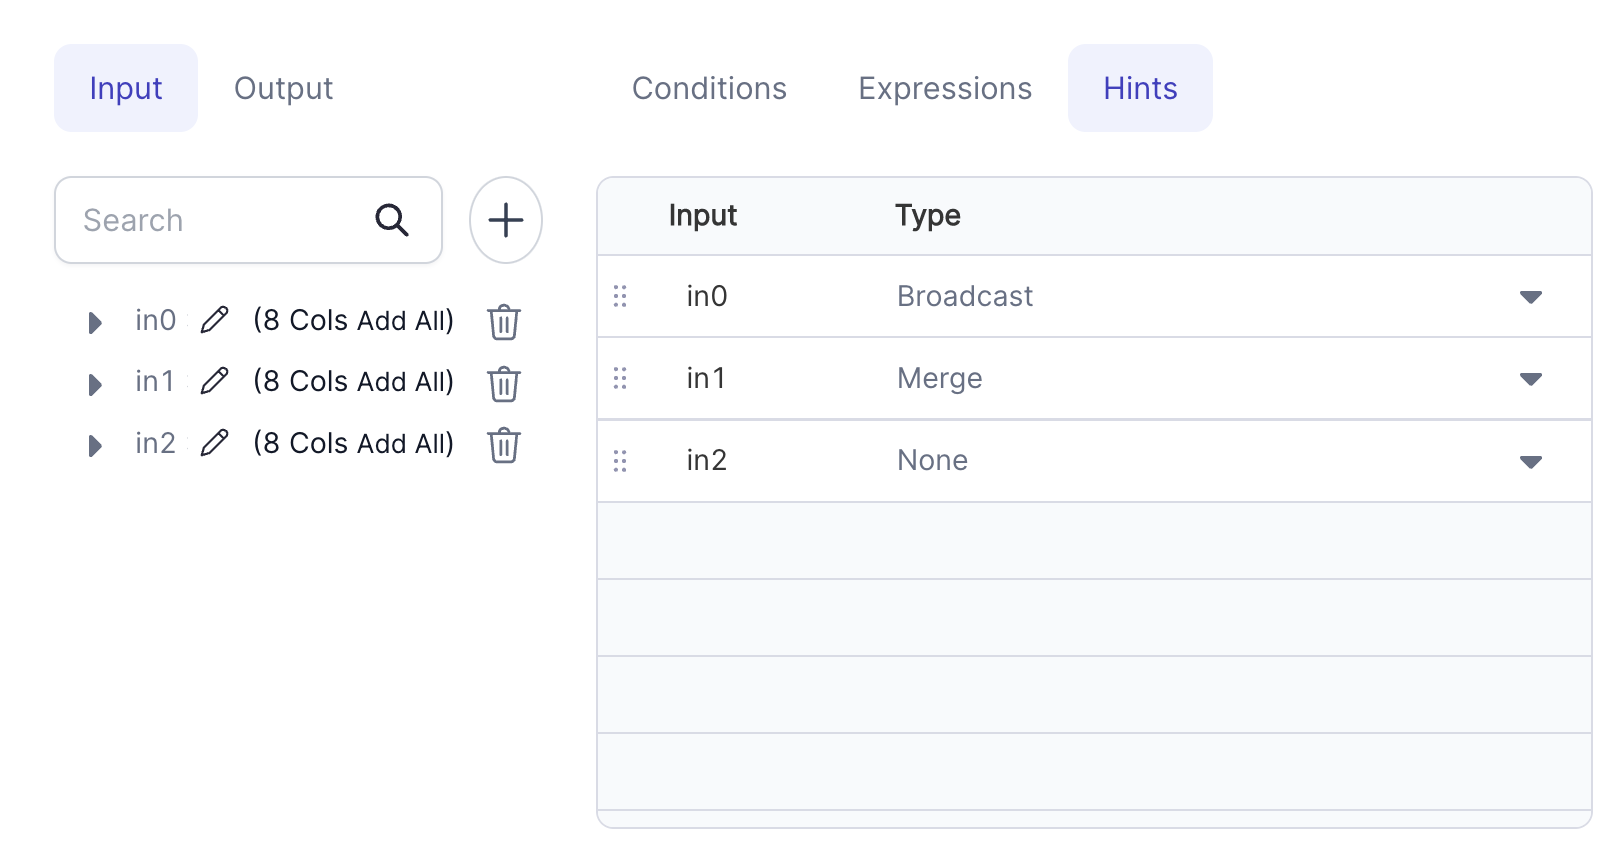
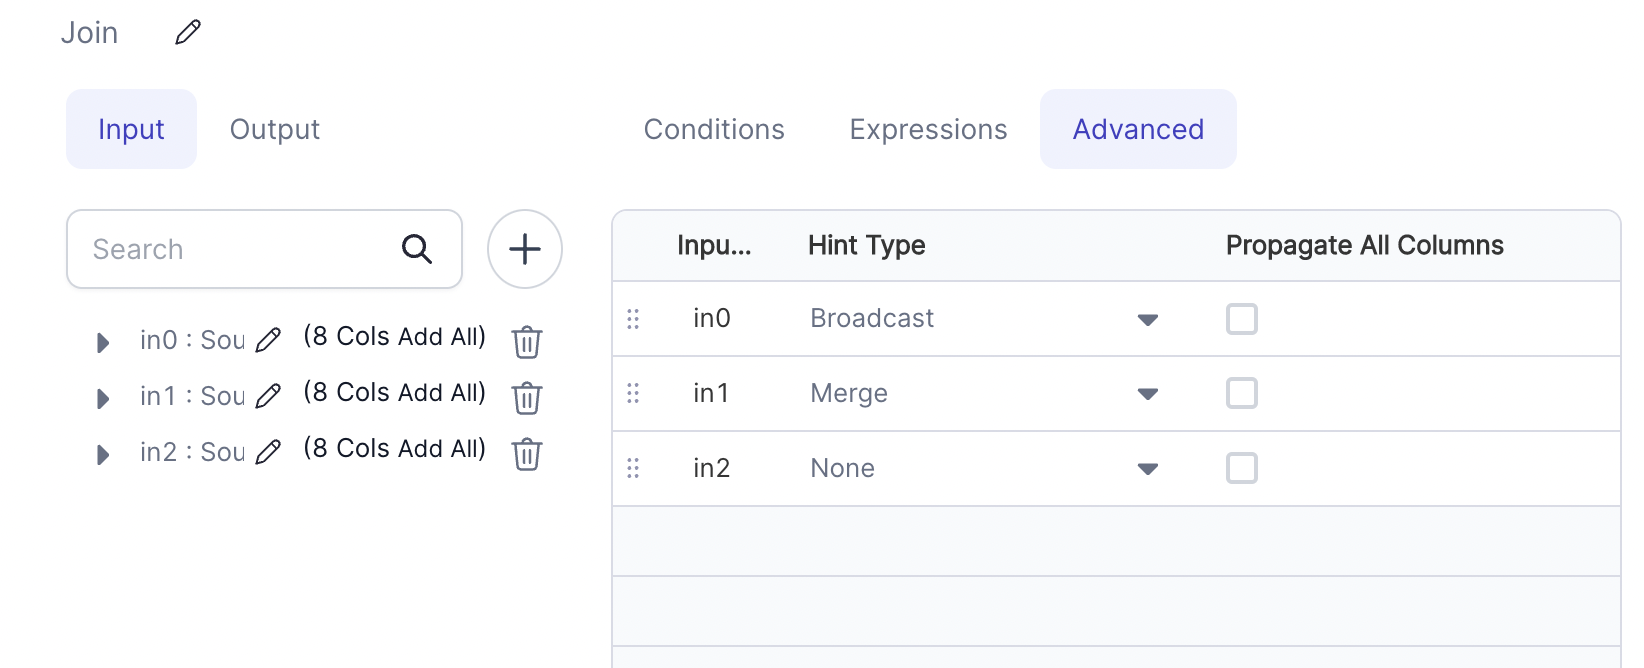
adding docs for join

diff --git a/docs/low-code-spark/gems/join-split/join.md b/docs/low-code-spark/gems/join-split/join.md
@@ -10,33 +10,36 @@ tags:
   - outer
   - left join
   - right join
+  - hints
+  - merge
 ---
 
-Performs various types of joins with one more DataFrames
+Joins 2 or more DataFrames based on the given configuration.
 
-### Parameters
+## Parameters
 
-| Parameter                         | Description                                                               | Required                               |
-| :-------------------------------- | :------------------------------------------------------------------------ | :------------------------------------- |
-| DataFrame 1                       | First input DataFrame                                                     | True                                   |
-| DataFrame 2                       | Second input DataFrame                                                    | True                                   |
-| DataFrame N                       | Nth input DataFrame                                                       | False                                  |
-| Join Condition ( Conditions tab ) | The join condition specifies how the rows will be combined.               | True                                   |
-| Type ( Conditions tab )           | The type of JOIN ( Inner, Full Outer, Left , Right , Left Semi, Left Anti | True                                   |
-| Where Clause ( Conditions tab )   | Filter applied after the Join operation                                   | False                                  |
-| Target column ( Expressions )     | Output column name                                                        | False                                  |
-| Expression ( Expressions )        | Expression to compute target column                                       | Required if a Target column is present |
-| Type ( Hints )                    | The type of Hint ( Broadcast, Merge, Shuffle Hash, Shuffle Replicate NL ) | False                                  |
+| Parameter                        | Description                                                                                                                                    | Required |
+| :------------------------------- | :--------------------------------------------------------------------------------------------------------------------------------------------- | :------- |
+| DataFrame 1                      | First input DataFrame                                                                                                                          | True     |
+| DataFrame 2                      | Second input DataFrame                                                                                                                         | True     |
+| DataFrame N                      | Nth input DataFrame                                                                                                                            | False    |
+| Join Condition (Conditions tab)  | The join condition specifies how the rows will be combined.                                                                                    | True     |
+| Type (Conditions tab)            | The type of JOIN `(Inner, Full Outer, Left , Right , Left Semi, Left Anti)`                                                                    | True     |
+| Where Clause (Conditions tab)    | `Filter` applied after the Join operation                                                                                                      | False    |
+| Target column (Expressions)      | Output column name                                                                                                                             | False    |
+| Expression (Expressions)         | Expression to compute target column. If no expression is given, then all columns from all DataFrames would reflect in output.                  | False    |
+| Hint Type (Advanced)             | The type of Join Hint (`Broadcast`, `Merge`, `Shuffle Hash`, `Shuffle Replicate NL` or `None`)                                                 | False    |
+| Propagate All Columns (Advanced) | If `true`, all columns from that DataFrame would be propagated to output DataFrame. Equivalent to selecting `df.*` for the selected DataFrame. | False    |
 
-### Add a new input
+## Adding a new input
 
 1. Click on the plus icon to add a new input.
 2. Then add your condition expression for the newly added input.
    ![Example usage of Join - Add new input to join gem](./img/add_new_input.png)
 
-### Examples
+## Examples
 
-#### Example 1 - Join with three DataFrame inputs
+### Example 1 - Join with three DataFrame inputs
 
 ![Example usage of Join - Join three DataFrame inputs](./img/join_without_hints.png)
 
@@ -48,7 +51,7 @@ import TabItem from '@theme/TabItem';
 <TabItem value="py" label="Python">
 
 ```py
-def total_orders(spark: SparkSession, in0: DataFrame) -> DataFrame:
+def Join_1(spark: SparkSession, in0: DataFrame) -> DataFrame:
         return in0\
         .alias("in0")\
         .join(in1.alias("in1"), (col("in0.customer_id") == col("in1.customer_id")), "inner")\
@@ -60,13 +63,8 @@ def total_orders(spark: SparkSession, in0: DataFrame) -> DataFrame:
 <TabItem value="scala" label="Scala">
 
 ```scala
-object total_orders {
-   def apply(
-    spark: SparkSession,
-    in0:   DataFrame,
-    in1:   DataFrame,
-    in2:   DataFrame
-  ): DataFrame =
+object Join_1 {
+   def apply(spark: SparkSession, in0: DataFrame, in1: DataFrame, in2: DataFrame): DataFrame =
     in0
       .as("in0")
       .join(in1.as("in1"), col("in0.customer_id") === col("in1.customer_id"), "inner")
@@ -79,26 +77,25 @@ object total_orders {
 
 ````
 
-#### Example 2 - Join with Hints
+### Example 2 - Join with Hints
 
 Join hints allow users to suggest the join strategy that Spark should use. For a quick overview, see Spark's Join Hints [documentation](https://spark.apache.org/docs/3.0.0/sql-ref-syntax-qry-select-hints.html#join-hints).
 
 ![Example usage of Join - Join with hints](./img/join_with_hints.png)
 
 ````mdx-code-block
-import Tabs from '@theme/Tabs';
-import TabItem from '@theme/TabItem';
-
 <Tabs>
 <TabItem value="py" label="Python">
 
 ```py
-def total_orders(spark: SparkSession, in0: DataFrame) -> DataFrame:
-        return in0\
+def Join_1(spark: SparkSession, in0: DataFrame, in1: DataFrame, in2: DataFrame) -> DataFrame:
+    df1 = in1.hint("merge")
+
+    return in0\
         .alias("in0")\
         .hint("broadcast")\
-        .join(in1.alias("in1").hint("merger"), (col("in0.customer_id") == col("in1.customer_id")), "inner")\
-        .join(in2.alias("in2"),                (col("in1.customer_id") == col("in2.customer_id")), "inner")
+        .join(df1.alias("in1"), col("in0.customer_id") == col("in1.customer_id"), "inner")\
+        .join(in2.alias("in2"), col("in0.customer_id") == col("in1.customer_id"), "inner")
 ```
 
 </TabItem>
@@ -106,18 +103,13 @@ def total_orders(spark: SparkSession, in0: DataFrame) -> DataFrame:
 <TabItem value="scala" label="Scala">
 
 ```scala
-object total_orders {
-   def apply(
-    spark: SparkSession,
-    in0:   DataFrame,
-    in1:   DataFrame,
-    in2:   DataFrame
-  ): DataFrame =
+object Join_1 {
+   def apply(spark: SparkSession, in0: DataFrame, in1: DataFrame, in2: DataFrame): DataFrame =
     in0
       .as("in0")
       .hint("broadcast")
       .join(in1.as("in1").hint("merge"), col("in0.customer_id") === col("in1.customer_id"), "inner")
-      .join(in2.as("in2"),                col("in1.customer_id") === col("in2.customer_id"), "inner")
+      .join(in2.as("in2"),               col("in1.customer_id") === col("in2.customer_id"), "inner")
 }
 ```
 
@@ -126,7 +118,67 @@ object total_orders {
 
 ````
 
-### Types of Join
+### Example 3 - Join with Propagate Columns
+
+```mdx-code-block
+import App from '@site/src/components/slider';
+
+export const ImageData = [
+  {
+    "image":"/img/join/join-eg3-conditions.png",
+    "description":<h3 style={{padding:'10px'}}>Step 1 - Specify join condition</h3>,
+  },
+  {
+    "image":"/img/join/join-eg3-expressions.png",
+    "description":<h3 style={{padding:'10px'}}>Step 2 - Choose required columns from dataframe</h3>,
+  },
+  {
+    "image":"/img/join/join-eg3-advanced.png",
+    "description":<h3 style={{padding:'10px'}}>Step 3 - Select Propagate all columns from in0</h3>,
+  },
+  {
+    "image":"/img/join/join-eg3-output.png",
+    "description":<h3 style={{padding:'10px'}}>Output - Output with all columns from in0 and selected columns from in1</h3>
+  },
+];
+
+<App ImageData={ImageData}></App>
+```
+
+````mdx-code-block
+<Tabs>
+<TabItem value="py" label="Python">
+
+```py
+def Join_1(spark: SparkSession, in0: DataFrame, in1: DataFrame, ) -> DataFrame:
+    return in0\
+        .alias("in0")\
+        .join(in1.alias("in1"), (col("in0.customer_id") == col("in1.customer_id")), "inner")\
+        .select(*[col("in1.email").alias("email"), col("in1.phone").alias("phone")], col("in0.*"))
+```
+
+</TabItem>
+
+<TabItem value="scala" label="Scala">
+
+```scala
+object Join_1 {
+
+  def apply(spark: SparkSession, in0: DataFrame, in1: DataFrame): DataFrame =
+    in0
+      .as("in0")
+      .join(in1.as("in1"), col("in0.customer_id") === col("in1.customer_id"), "inner")
+      .select(col("in1.phone").as("phone"), col("in1.email").as("email"), col("in0.*"))
+
+}
+```
+
+</TabItem>
+</Tabs>
+
+````
+
+## Types of Join
 
 Suppose there are 2 tables TableA and TableB with only 2 columns (Ref, Data) and following contents:
 
